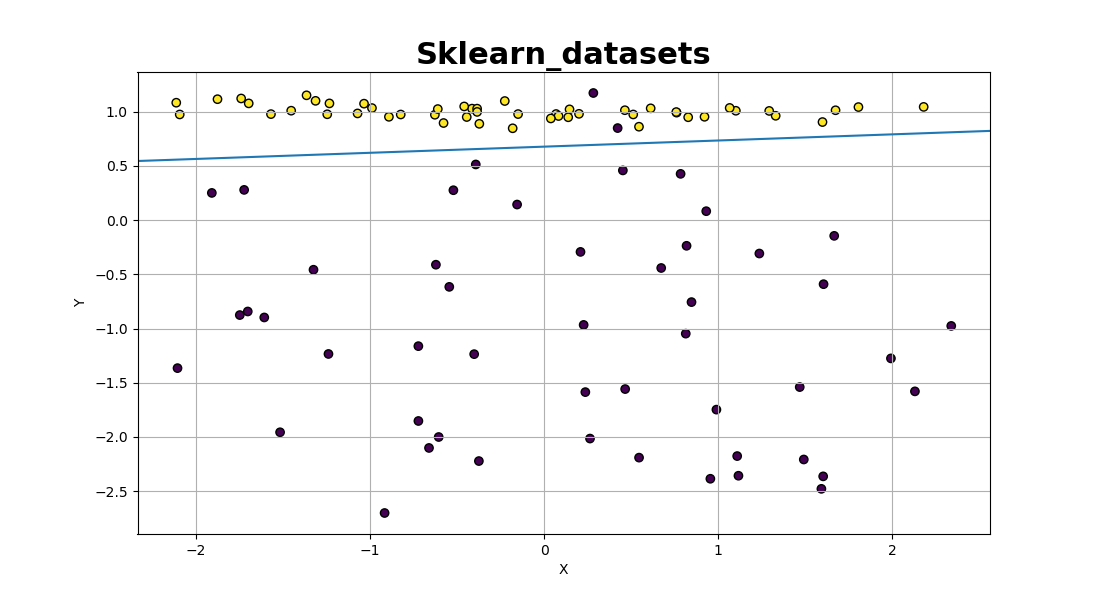
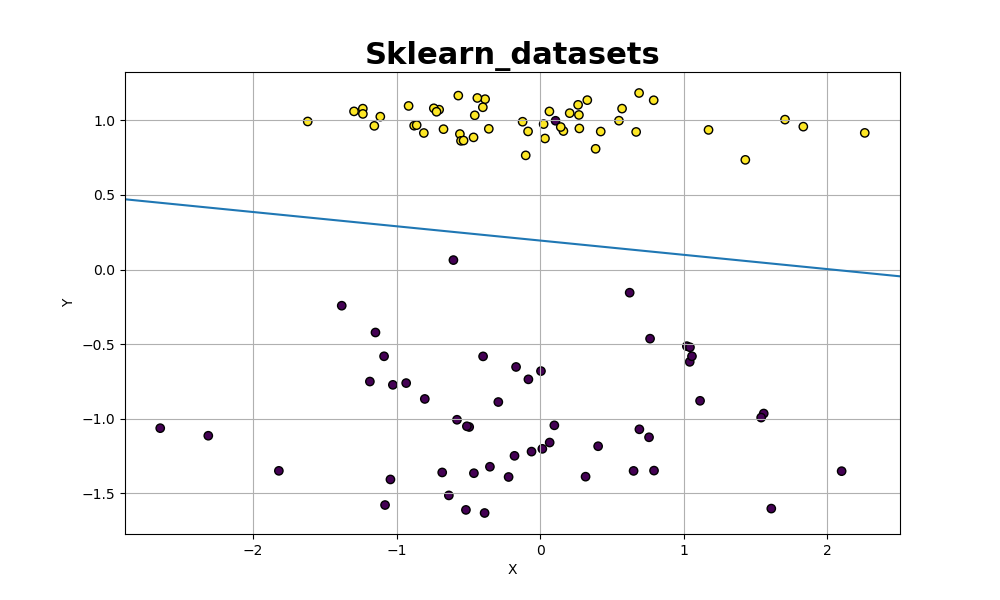
Correções no perceptron

diff --git a/utils/Graphs.py b/utils/Graphs.py
@@ -26,7 +26,7 @@ class Graphs:
             Nenhum.
         """
         plt.clf()
-        _, ax = plt.subplots(figsize=(11, 6))
+        _, ax = plt.subplots(figsize=(10, 6))
         
         ax.scatter(input[:, 0], input[:, 1], marker='o', c=output, edgecolor='k')
         

diff --git a/01-Perceptron/Readme.md b/01-Perceptron/Readme.md
@@ -53,22 +53,56 @@ Os resultados dos testes são salvos na pasta `Results/`.
 
 ## Resultados
 
-### Porta And
-<div style="display:flex; justify-content:center; align-items:center;">
-    <div style="margin-right: 20px;">
-        <a href = "Results/and_gate/and_gate_result.png">
-        <img src="Results/and_gate/and_gate_result.png" alt="Resultado" width="300" />
-        </a>
-        <p align="center">Resultado</p>
-    </div>
-    <div style="margin-right: 20px;">
-        <img src="Results/and_gate/and_gate_history.png" alt="Histórico" width="300" />
-        <p align="center">Histórico de tentativas</p>
-    </div>
-    <div>
-        <img src="Results/and_gate/and_gate_errors.png" alt="Erro" width="300" />
-        <p align="center">Taxa de erro durante a execução</p>
-    </div>
+### Make Classification - scikit-learn
+<div align="center">
+    <a href = "Results/Sklearn_test/Sklearn_datasets_result.png">
+        <img src="Results/Sklearn_test/Sklearn_datasets_result.png" alt="Resultado" width="300">
+    </a>
+    <a href = "Results/Sklearn_test/Sklearn_datasets_history.png">
+        <img src="Results/Sklearn_test/Sklearn_datasets_history.png" alt="Histórico de tentativas" width="300">
+    </a>
+    <a href = "Results/Sklearn_test/Sklearn_datasets_errors.png" >
+        <img src="Results/Sklearn_test/Sklearn_datasets_errors.png" alt="Erros" width="300">
+    </a>
+</div>
+
+### And Gate
+<div align="center">
+    <a href = "Results/and_gate/and_gate_result.png">
+        <img src="Results/and_gate/and_gate_result.png" alt="Resultado" width="300">
+    </a>
+    <a href = "Results/and_gate/and_gate_history.png">
+        <img src="Results/and_gate/and_gate_history.png" alt="Histórico de tentativas" width="300">
+    </a>
+    <a href = "Results/and_gate/and_gate_errors.png" >
+        <img src="Results/and_gate/and_gate_errors.png" alt="Erros" width="300">
+    </a>
+</div>
+
+### Or Gate
+<div align="center">
+    <a href = "Results/or_gate/or_gate_result.png">
+        <img src="Results/or_gate/or_gate_result.png" alt="Resultado" width="300">
+    </a>
+    <a href = "Results/or_gate/or_gate_history.png">
+        <img src="Results/or_gate/or_gate_history.png" alt="Histórico de tentativas" width="300">
+    </a>
+    <a href = "Results/or_gate/or_gate_errors.png" >
+        <img src="Results/or_gate/or_gate_errors.png" alt="Erros" width="300">
+    </a>
+</div>
+
+### XOr Gate
+<div align="center">
+    <a href = "Results/xor_gate/xor_gate_result.png">
+        <img src="Results/xor_gate/xor_gate_result.png" alt="Resultado" width="300">
+    </a>
+    <a href = "Results/xor_gate/xor_gate_history.png">
+        <img src="Results/xor_gate/xor_gate_history.png" alt="Histórico de tentativas" width="300">
+    </a>
+    <a href = "Results/xor_gate/xor_gate_errors.png" >
+        <img src="Results/xor_gate/xor_gate_errors.png" alt="Erros" width="300">
+    </a>
 </div>
 
 
